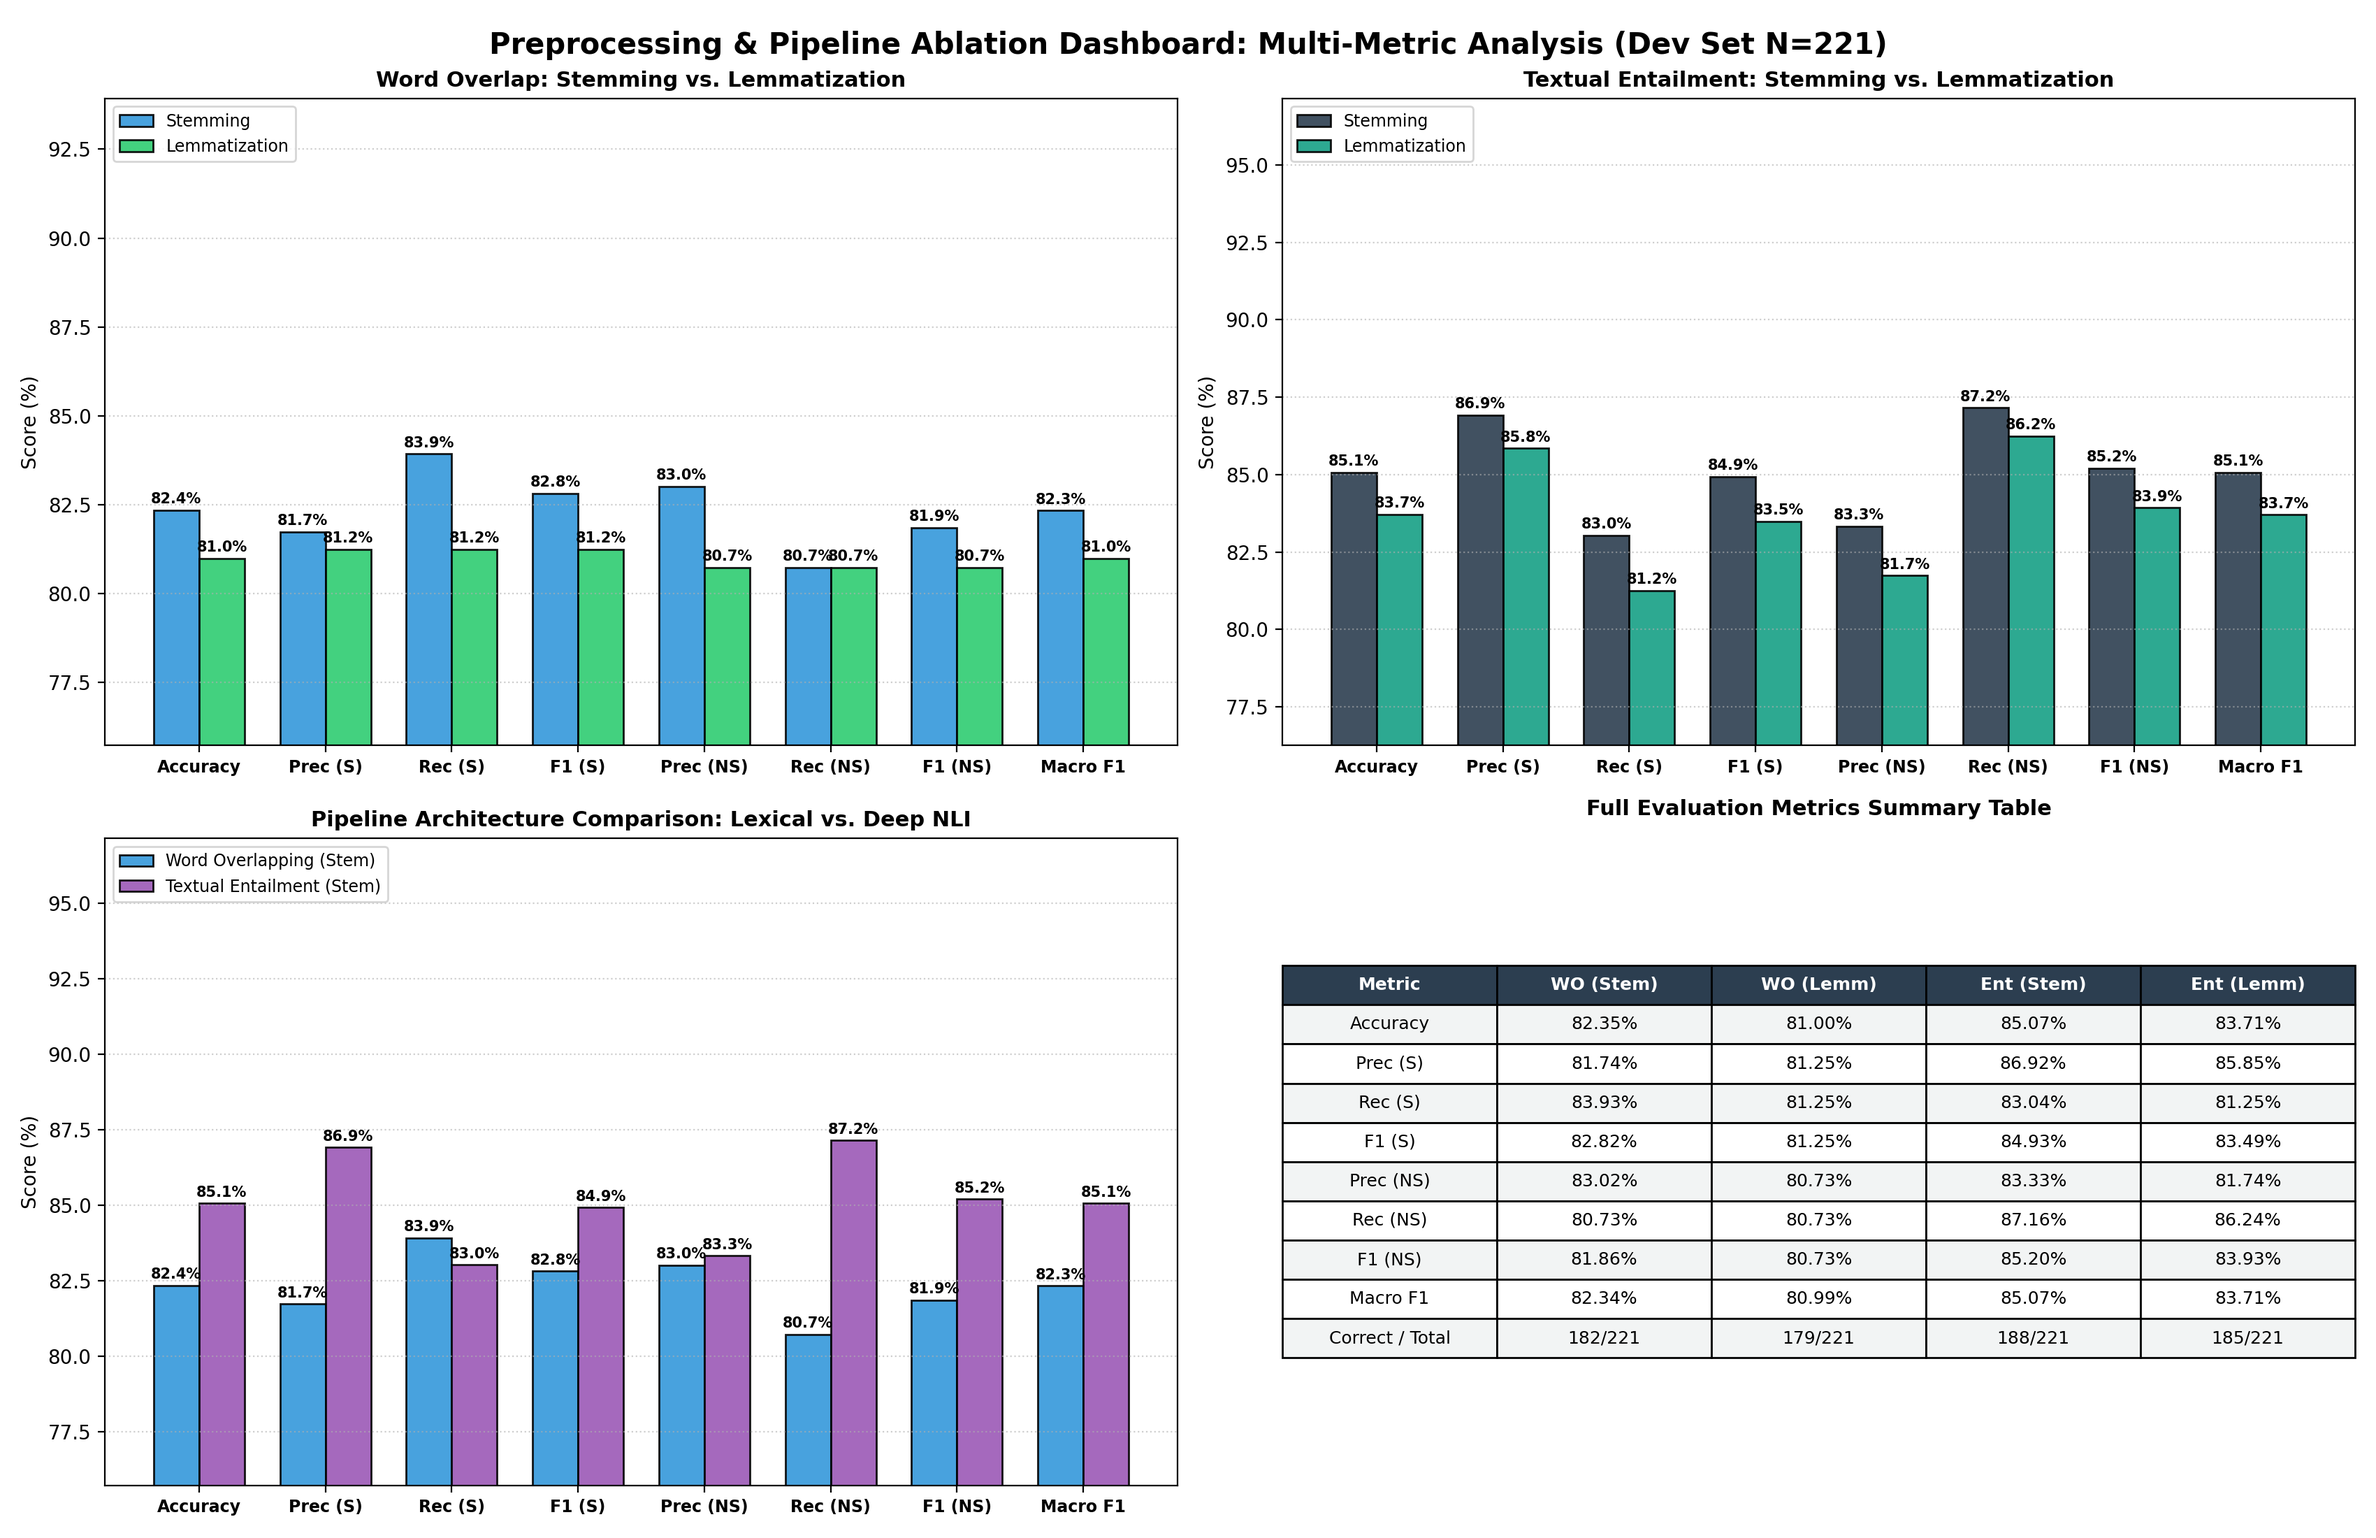
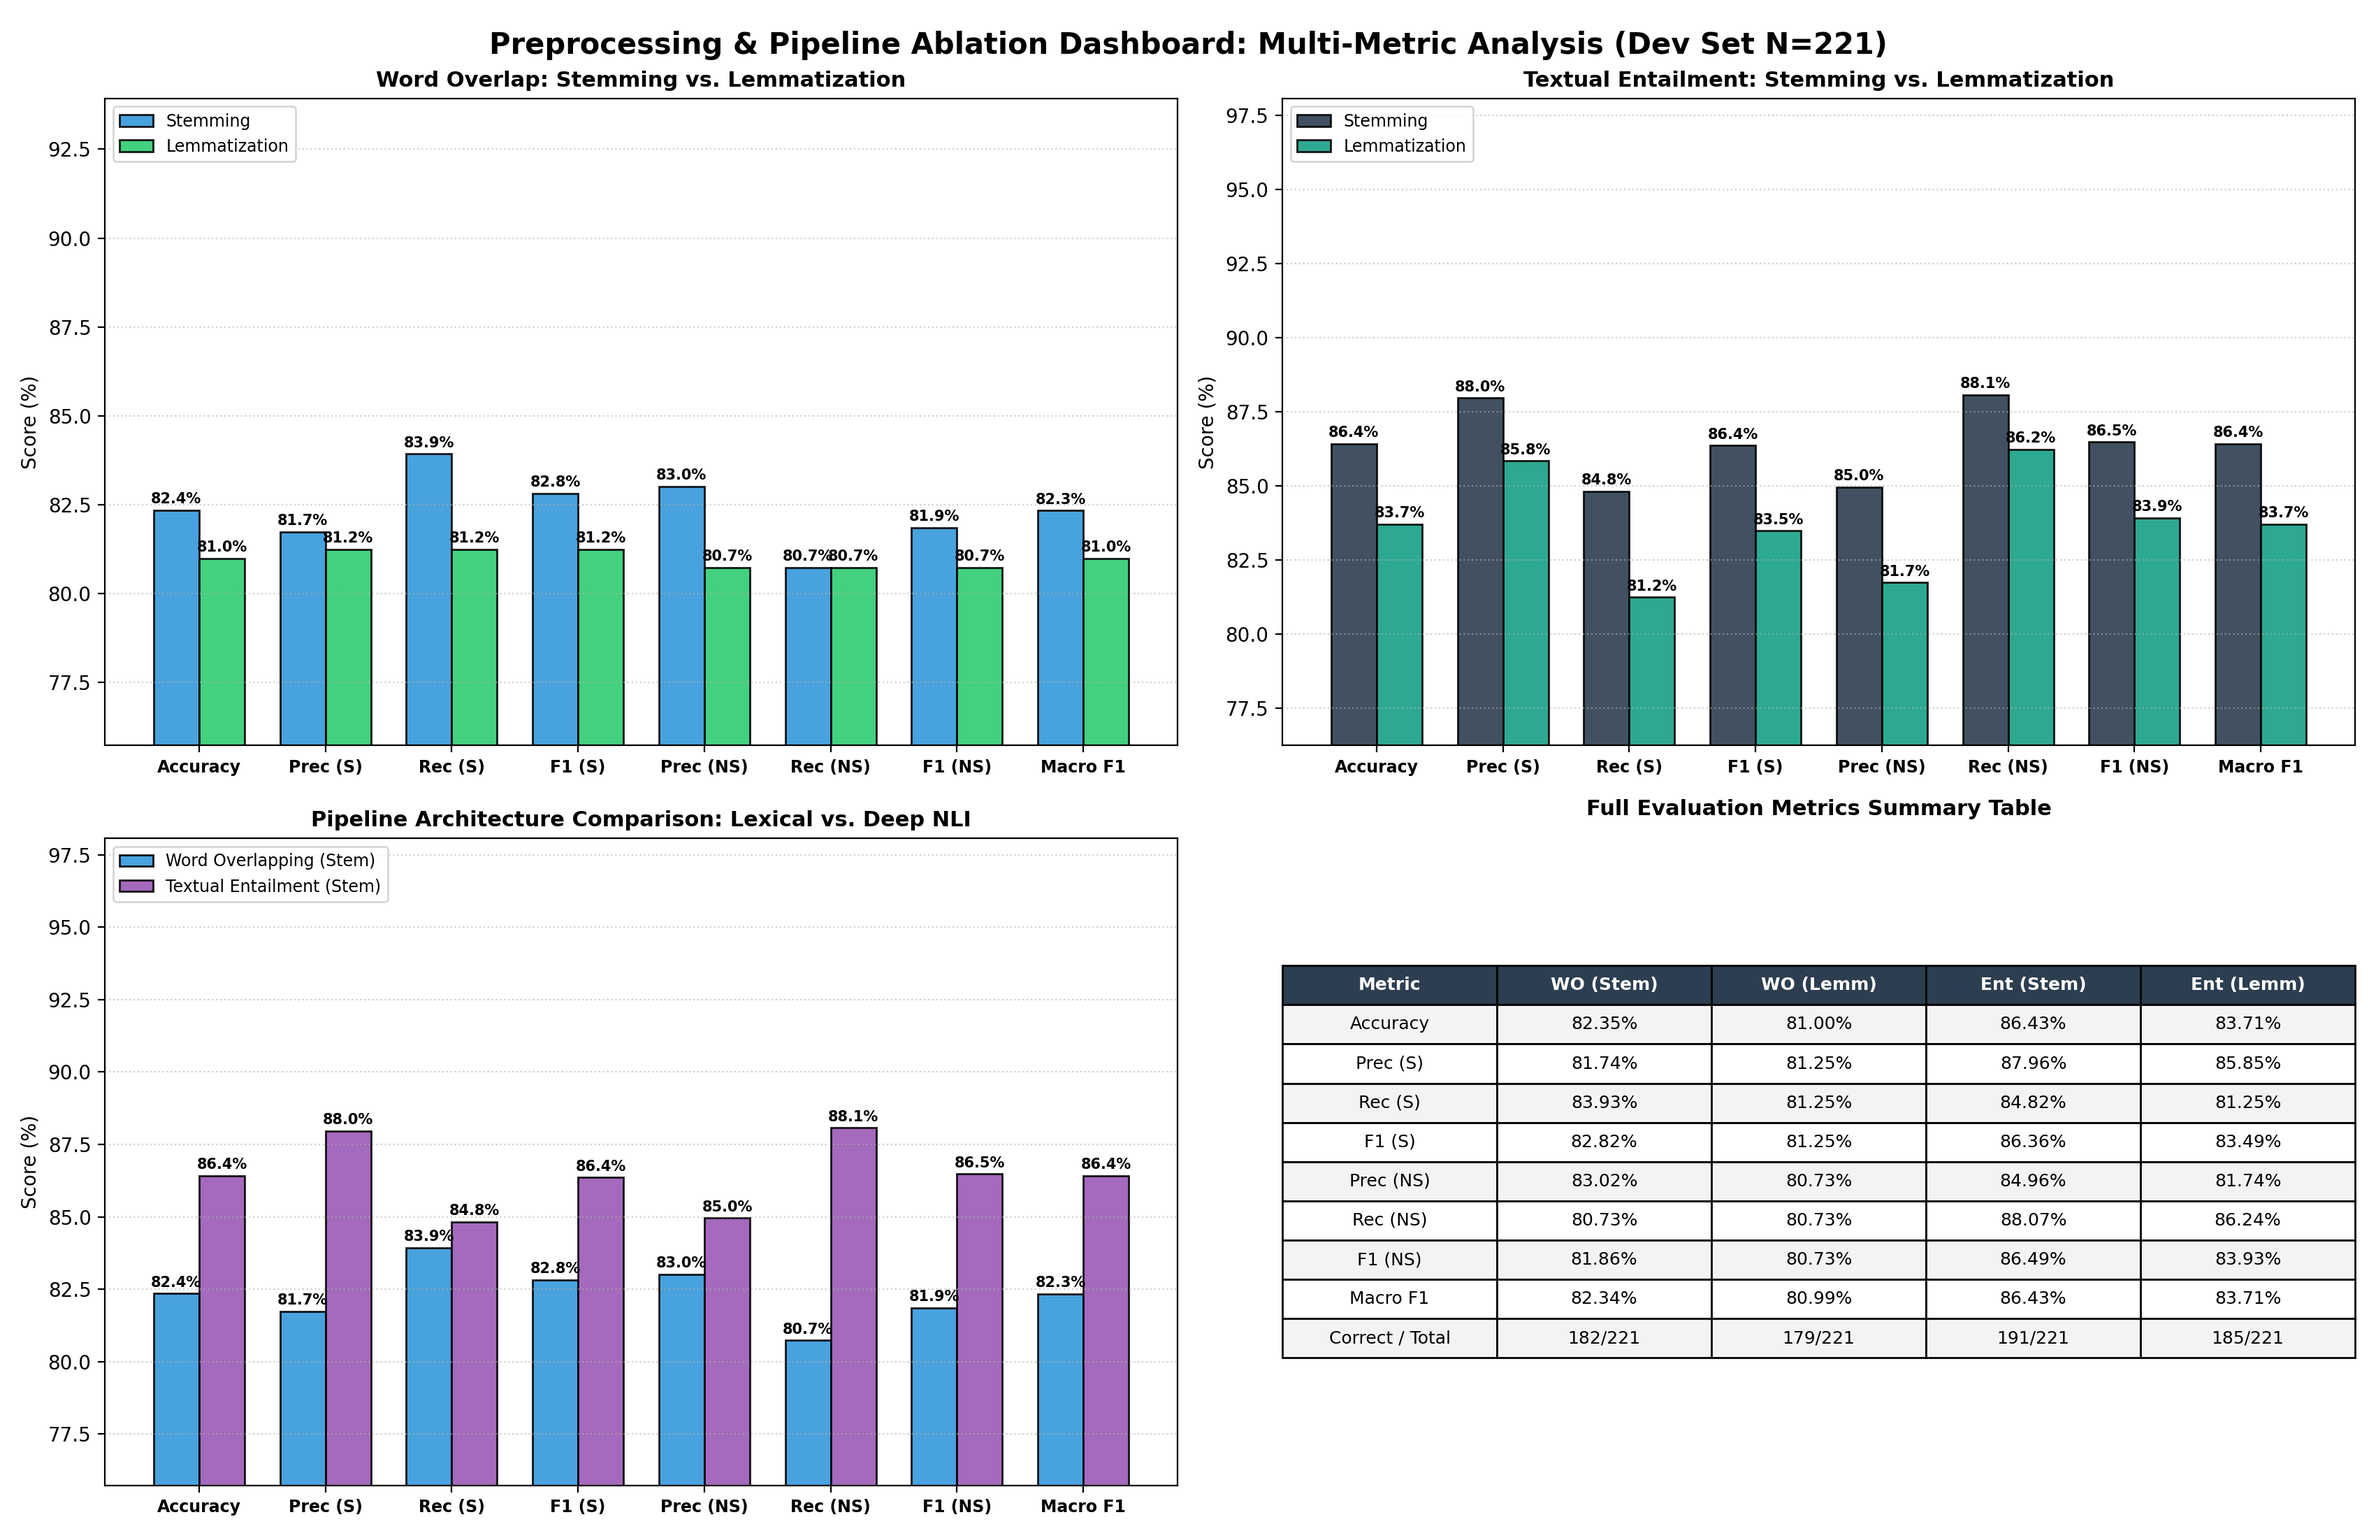
add missing functions and tune parameters

diff --git a/factcheck.py b/factcheck.py
@@ -301,7 +301,7 @@ class WordRecallThresholdFactChecker(FactChecker):
         Initializes the Word Overlap Fact Checker baseline with configurable lexical preprocessing.
 
         :param threshold: Decision boundary threshold (predict 'S' if overlap score >= threshold, else 'NS').
-        :param metric: Scoring metric to use: 'recall', 'jaccard', or 'f1'.
+        :param metric: Scoring metric to use: 'recall', 'jaccard', 'f1', or 'cosine'.
         :param aggregation: Multi-passage aggregation strategy: 'max' (taking max score across
                             passages) or 'concat' (scoring against concatenated passages).
         :param use_stemmer: Whether to apply Porter stemming (stemming vs none ablation).
@@ -428,6 +428,23 @@ class WordRecallThresholdFactChecker(FactChecker):
         recall = len(intersection) / len(fact_tokens)
         return 2 * precision * recall / (precision + recall)
 
+    def _cosine(self, fact_tokens: set, passage_tokens: set) -> float:
+        """
+        Binary cosine similarity (Ochiai coefficient) over token sets:
+        |fact_tokens ∩ passage_tokens| / sqrt(|fact_tokens| * |passage_tokens|).
+
+        Unlike recall, both set sizes appear in the denominator, so a long passage
+        lowers the score even when the claim is fully covered.
+
+        :param fact_tokens: Set of preprocessed tokens representing the claim/fact.
+        :param passage_tokens: Set of preprocessed tokens representing the evidence passage.
+        :return: Cosine similarity as a float in [0.0, 1.0].
+        """
+        if not fact_tokens or not passage_tokens:
+            return 0.0
+        intersection = len(fact_tokens & passage_tokens)
+        return intersection / ((len(fact_tokens) * len(passage_tokens)) ** 0.5)
+
     def predict(self, fact: str, passages: List[dict]) -> str:
         """
         Predicts whether an atomic fact is supported ('S') or not supported ('NS') by retrieved passages.
@@ -449,6 +466,8 @@ class WordRecallThresholdFactChecker(FactChecker):
             score_fn = self._jaccard
         elif self.metric == "f1":
             score_fn = self._f1
+        elif self.metric == "cosine":
+            score_fn = self._cosine
         else:
             score_fn = self._recall
 
@@ -490,7 +509,7 @@ class WordRecallThresholdFactChecker(FactChecker):
         :param examples: List of FactExample objects (or dicts with 'fact'/'text', 'passages', 'label').
         :param k: Number of cross-validation folds (default: 5).
         :param seed: Random seed for fold partitioning.
-        :param metric: Scoring metric ('recall', 'jaccard', or 'f1').
+        :param metric: Scoring metric ('recall', 'jaccard', 'f1', or 'cosine').
         :param aggregation: Passage aggregation ('max' or 'concat').
         :param verbose: Whether to print the formatted fold evaluation table.
         :return: Dict containing fold metrics, mean validation accuracy, and mean optimal threshold.
@@ -621,10 +640,10 @@ class EntailmentFactChecker(FactChecker):
         ent_model,
         strategy: str = "threshold",
         threshold: float = 0.50,
-        prune_threshold: float = 0.10,
+        prune_threshold: float = 0.22,
         use_pruning: bool = True,
         sentence_level: bool = True,
-        max_candidates: int = 6,
+        max_candidates: int = 15,
     ):
         """
         Initializes the Textual Entailment Fact Checker pipeline with multi-stage reasoning.

diff --git a/threshold_checker.py b/threshold_checker.py
@@ -7,37 +7,40 @@ passages_dict = read_passages("data/passages_bm25_ChatGPT_humfacts.jsonl")
 examples = read_fact_examples("data/dev_labeled_ChatGPT.jsonl", passages_dict)
 
 checker = WordRecallThresholdFactChecker()
+methods = [
+    ("Recall", checker._recall),
+    ("F1", checker._f1),
+    ("Jaccard", checker._jaccard),
+    ("Cosine", checker._cosine),
+]
 
-#  Pre-calculate overlap scores for all examples (to make the sweep fast)
-scores = []
+# One overlap score per claim: the best passage, for every scoring method.
+score_lists = {name: [] for name, _ in methods}
 labels = []
 for ex in examples:
     fact_tokens = checker._preprocess(ex.fact)
-    best_score = max(
-        (
-            checker._recall(fact_tokens, checker._preprocess(p["text"]))
-            for p in ex.passages
-        ),
-        default=0.0,
-    )
-    scores.append(best_score)
+    passage_sets = [checker._preprocess(p["text"]) for p in ex.passages]
+    for name, score_fn in methods:
+        if not fact_tokens or not passage_sets:
+            best_score = 0.0
+        else:
+            best_score = max(score_fn(fact_tokens, tokens) for tokens in passage_sets)
+        score_lists[name].append(best_score)
     # Ground truth: 1 for 'S', 0 for 'NS' (and IR is treated as NS)
     labels.append(1 if ex.label == "S" else 0)
 
-# 3. Sweep thresholds from 0.10 to 0.90 in steps of 0.05
-best_threshold = 0.5
-best_accuracy = 0.0
 
-print(f"{'Threshold':<12} {'Accuracy':<10}")
-print("-" * 22)
-for t in np.arange(0.10, 0.95, 0.05):
-    preds = [1 if s >= t else 0 for s in scores]
-    acc = sum(p == l for p, l in zip(preds, labels)) / len(labels)
-    print(f"{t:<12.2f} {acc:<10.4f}")
-    if acc > best_accuracy:
-        best_accuracy = acc
-        best_threshold = t
-
-print(
-    f"\nOptimal Threshold: {best_threshold:.2f} with Accuracy: {best_accuracy * 100:.2f}%"
-)
+n = len(labels)
+print(f"{'Method':<12} {'Threshold':<12} {'Accuracy'}")
+print("-" * 36)
+for name, _ in methods:
+    scores = score_lists[name]
+    best_threshold = 0.0
+    best_accuracy = -1.0
+    for t in np.arange(0.01, 0.99, 0.01):
+        correct = sum((s > t) == lab for s, lab in zip(scores, labels))
+        acc = correct / n if n else 0.0
+        if acc > best_accuracy:
+            best_accuracy = acc
+            best_threshold = float(t)
+    print(f"{name:<12} {best_threshold:<12.2f} {best_accuracy * 100:.2f}%")
